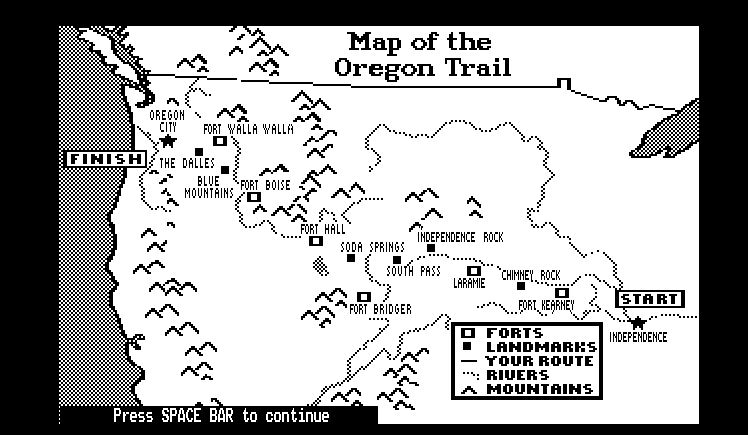
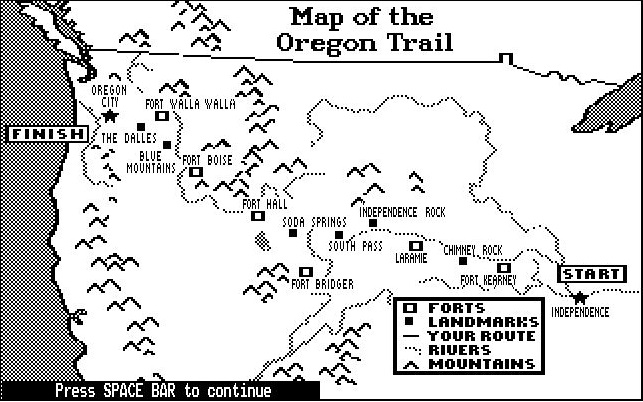
map

diff --git a/src/js/Map.js b/src/js/Map.js
@@ -1,0 +1,76 @@
+var Map={
+  display: function(miles){
+
+    var svgContent="";
+    /*for(var landmark in Map.landmarks){
+      var x=Map.landmarks[landmark].coordinate.x;
+      var y=Map.landmarks[landmark].coordinate.y;
+      svgContent+='<circle cx="'+x+'" cy="'+y+'" r="5" fill="red" />';
+    }*/
+
+    var landmarktraveled=Map.landmarks["Independence"];
+    while(miles>landmarktraveled.miles){
+      var nextlandmark=Map.landmarks[landmarktraveled.next];
+      var x1=landmarktraveled.coordinate.x;
+      var y1=landmarktraveled.coordinate.y;
+      var x2;
+      var y2;
+      if(miles>nextlandmark.miles){
+        x2=nextlandmark.coordinate.x;
+        y2=nextlandmark.coordinate.y;
+      }
+      else{
+        var percentage=(miles-landmarktraveled.miles)/(nextlandmark.miles-landmarktraveled.miles);
+
+        var x2=landmarktraveled.coordinate.x+(nextlandmark.coordinate.x-landmarktraveled.coordinate.x)*percentage;
+        var y2=landmarktraveled.coordinate.y+(nextlandmark.coordinate.y-landmarktraveled.coordinate.y)*percentage;
+      }
+      svgContent+='<line x1="'+x1+'" y1="'+y1+'" x2="'+x2+'" y2="'+y2+'" style="stroke:rgb(255,0,0);stroke-width:2" />';
+      landmarktraveled=nextlandmark;
+    }
+
+    document.getElementById("game").innerHTML=
+      '<svg id="map" width="643" height="402">'+svgContent+'</svg>';
+  },
+  landmarks:{
+  	"Independence":{miles: 0, coordinate:{x:580, y:295}, routes:{{"Kansas River Crossing":102}}},
+  	"Kansas River Crossing":{miles: 102, coordinate:{x:553, y:288}, next:"Big Blue River Crossing"},
+  	"Big Blue River Crossing":{miles: 185, coordinate:{x:535, y:275}, next:"Fort Kearney"},
+  	"Fort Kearney": {miles:304,coordinate:{x:503, y:266},next:"Chimney Rock"},
+  	"Chimney Rock": {miles:554,coordinate:{x:460, y:260},next:"Fort Laramie"},
+  	"Fort Laramie": {miles:640,coordinate:{x:415, y:245},next:"Independence Rock"},
+  	"Independence Rock": {miles:830,coordinate:{x:373, y:223},next:"South Pass/Trail Splits"},
+  	"South Pass/Trail Splits": {miles: 932,coordinate:{x:339, y:234},next:"Green River Crossing"},
+  	"Fort Bridger": {miles: 989,coordinate:{x:306, y:272}},
+  	"Green River Crossing": {miles: 989, coordinate:{x:310, y:244},next:"Soda Springs"},
+  		//Green River Shortcut: 1,057??
+  		//Trail to Bridger: 1,151??
+  	"Soda Springs": {miles: 1133, coordinate:{x:293, y:232},next:"Fort Hall"},
+  			//Green River Shortcut: 1,133
+  			//Trail to Bridger: 1,295??
+  	"Fort Hall": {miles: 1190, coordinate:{x:257, y:215},next:"Snake River Crossing"},
+  		//Green River Shortcut: 1,190
+  		//Trail to Bridger: 1,395??
+  	"Snake River Crossing": {miles: 1372, coordinate:{x:213, y:200},next:"Fort Boise"},
+  		//Green River Shortcut: 1,372
+  		//Trail to Bridger: 1,534??
+  	"Fort Boise": {miles: 1486, coordinate:{x:197, y:171},next:"Blue Mountains/trail splits"},
+   			//Green River Shortcut: 1,486 Miles Traveled
+   			//Trail to Bridger: 1,648??
+  	"Blue Mountains/trail splits": {miles: 1646, coordinate:{x:169, y:145},next:"The Dalles/trail splits"},
+  		//Green River Shortcut: 1,646 Miles Traveled.
+  		//Trail to Bridger: 1,808??
+  	"The Dalles/trail splits": {miles: 1771, coordinate:{x:141, y:127}},
+  			//Green River Shortcut/Shortcut to the Dalles: 1,771 Miles Traveled
+  			//Green River Shortcut/Trail to Walla Walla: 1,889 Miles Traveled??
+  			//Trail to Bridger/Shortcut to the Dalles: 1,808 Miles Traveled?
+  			//Trail to Bridger/Trail to Walla Walla: 1,983 Miles Traveled??
+  	"Fort Walla Walla": {coordinate:{x:162, y:115}},
+  		//Green River Shortcut: 1,769 Miles Traveled.??
+  		//Trail to Bridger: 1,863 Miles Traveled.??
+    "Oregon City": {coordinate:{x:110, y:115}}
+
+
+  }
+
+};

diff --git a/src/js/Game.js b/src/js/Game.js
@@ -1,6 +1,7 @@
 var Game = {
   gameCaravan: new Caravan(),
   date: new Date(),
+  miles: 0,
   scenes: {
     startScreen: function(){
       document.getElementById("game").innerHTML=
@@ -99,11 +100,11 @@ var Game = {
         </div>`;
 
       Game.waitForInput(null,function(value) {return (value.length > 0)},function(leadername){
-        
+
         // Add the leader to the caravan
         var leader = new Person(leadername);
         Game.gameCaravan.addPerson(leader);
-        
+
         document.getElementById("enterNames").innerHTML =
           ` <div class="white_black">\n
               <p>What are the first names of the four other members in your party?</p>\n
@@ -117,7 +118,7 @@ var Game = {
             var nameFunc=function(name){
               var inputEle=document.getElementById("input");
               var index=+inputEle.parentNode.id[3];
-              
+
               if (name == "") { // if they're done entering names, autofill
                 for (var i = index; i <= 4; i++) {
                   Game.gameCaravan.addPerson(new Person(randomName()));
@@ -130,7 +131,7 @@ var Game = {
               // Add a new peron to the caravan for each input name
               var newPerson = new Person(name);
               Game.gameCaravan.addPerson(newPerson);
-              
+
               if(index==4){ // if they've entered all the names
                 Game.scenes.chooseDepartureMonth();
                 return;
@@ -220,7 +221,7 @@ var Game = {
           </div>\n`;
         thestore = new Store(20, 10, 2, 10, 10, 10, 0.2);
         var storeFront = function(){
-          
+
           document.getElementById("game").innerHTML =
           `<div id="mattstore" class="white_black">\n
               <div>
@@ -420,15 +421,24 @@ var Game = {
           }
 
         }
-        var travelLoop=setInterval(travelFunc,3000/24); /*call travelFunc once per game hour, 3 game day per second*/
+        var travelLoop=setInterval(travelFunc,3000/24); /*call travelFunc once per game hour, 3 seconds per game day*/
         Game.waitForInput(null,null,function(){
           clearInterval(travelLoop);
-          Game.scenes.EnterMenu();
+          Game.scenes.TrailMenu();
         });
     },
-    EnterMenu: function(){
-      document.getElementById("game").innerHTML="<p>menu will added here later. Enter to contunue.</p>";
+    TrailMenu: function(){
+      document.getElementById("game").innerHTML=`
+        <div id=trail_menu>
+
+        </div>`;
       Game.waitForInput(null,null,Game.scenes.Journey);
+    },
+    CheckSupply: function(){
+
+    },
+    ShowMap: function(){
+
     },
     Fishing: function(){
 

diff --git a/src/main.css b/src/main.css
@@ -101,7 +101,7 @@
 
 #journey #animation {
     background-color: black;
-    
+
     background-image: url('./img/bg_grass.png');
     background-repeat: no-repeat;
     background-position-y: top;
@@ -127,4 +127,8 @@
 
 #journey #status ul {
     list-style-type: none;
+}
+
+#map{
+  background-image: url("img/map.png");
 }

diff --git a/src/index.html b/src/index.html
@@ -17,6 +17,7 @@
         <script src="js/RandomEvents.js"></script>
 		<script src="js/Person.js"></script>
 		<script src="js/Caravan.js"></script>
+    <script src="js/Map.js"></script>
         <script src="js/Game.js"></script>
 
     </body>
